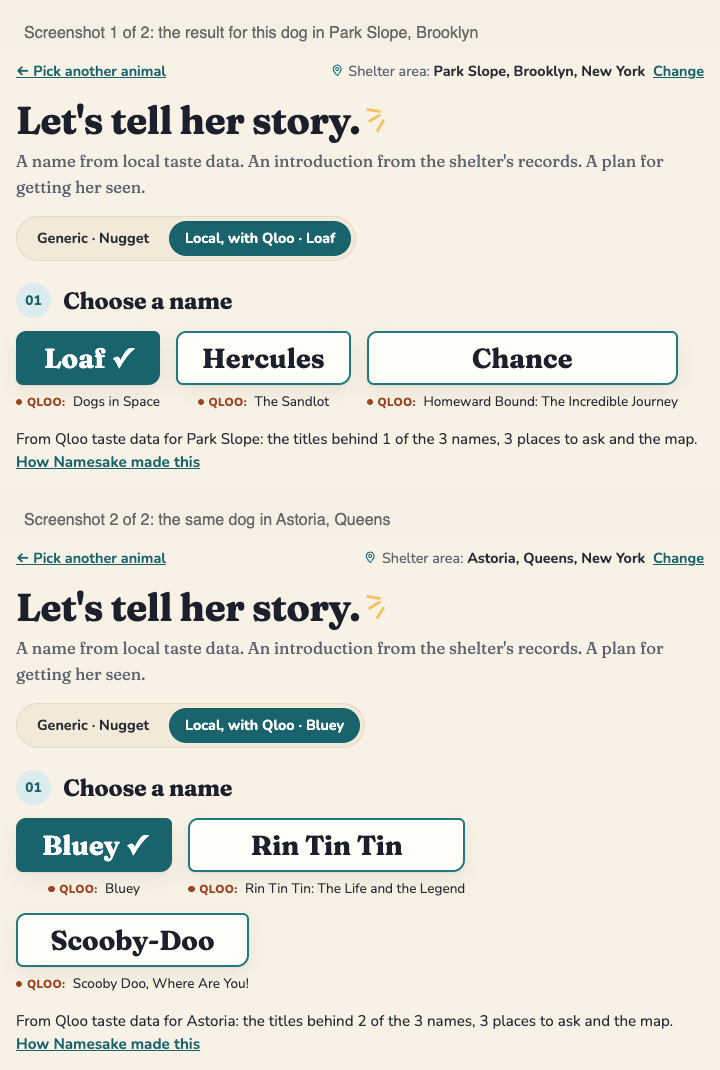
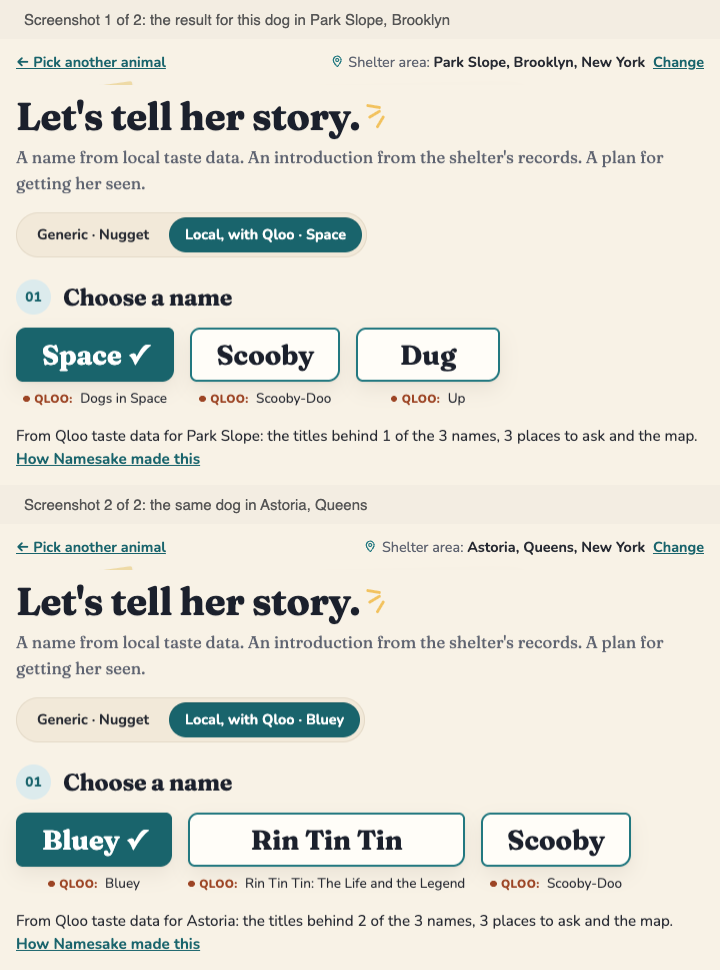
README screenshots retaken after the 24 October rebuild and note change; the lead dog's Park Slope names are Space, Scooby and Dug, Astoria's third is Scooby

Changed region(s): [[0.0, 0.0, 0.9778, 0.9897], [0.6111, 0.7423, 0.6417, 0.7732]]

diff --git a/README.md b/README.md
@@ -14,7 +14,7 @@ A **generic version** of the listing sits beside the **local version**, so you c
 
 Built for the [Qloo Agentic Hackathon](https://qloo-hackathon.devpost.com/). Taste data from the Qloo API; not affiliated with Qloo.
 
-![The first screen of the result for the lead dog in Park Slope, in the story skin: her photo, the local name Loaf with its line "Named after Loaf, a dog in Dogs in Space." and the start of what the shelter recorded on the left; "Let's tell her story" with the Generic and Local version toggle; three name options (Loaf, Hercules, Chance), each with its Qloo title under it; the line saying what came from Qloo's data for Park Slope; and the start of her introduction](docs/img/result-first-screen.png)
+![The first screen of the result for the lead dog in Park Slope, in the story skin: her photo, the local name Space with its line "Named after Dogs in Space." and the start of what the shelter recorded on the left; "Let's tell her story" with the Generic and Local version toggle; three name options (Space, Scooby, Dug), each with its Qloo title under it; the line saying what came from Qloo's data for Park Slope; and the start of her introduction](docs/img/result-first-screen.png)
 
 The whole result page, with the map, the places to ask and "How Namesake made this": [`docs/img/result.png`](docs/img/result.png).
 
@@ -35,9 +35,9 @@ Namesake does **not** claim to get animals adopted faster, save lives or money, 
 
 ## How it uses Qloo
 
-The same dog, the same record, two neighbourhoods of one city. Park Slope offers Loaf, Hercules and Chance; Astoria offers Bluey, Rin Tin Tin and Scooby-Doo. The local name comes from a pet-themed title Qloo ranks in each area (Loaf from *Dogs in Space*, Bluey from *Bluey*); the other options come from the area's pet-themed titles (Rin Tin Tin) or from lookalike titles Namesake's AI proposed and found in Qloo (Hercules from *The Sandlot*, Chance from *Homeward Bound*, Scooby-Doo).
+The same dog, the same record, two neighbourhoods of one city. Park Slope offers Space, Scooby and Dug; Astoria offers Bluey, Rin Tin Tin and Scooby. The local name comes from a pet-themed title Qloo ranks in each area (Space from *Dogs in Space*, Bluey from *Bluey*); the other options come from the area's pet-themed titles (Rin Tin Tin) or from lookalike titles Namesake's AI proposed and found in Qloo (Scooby from *Scooby-Doo* in both areas, Dug from *Up*).
 
-![The lead dog's result in Park Slope, Brooklyn (top: Loaf, Hercules and Chance) and in Astoria, Queens (bottom: Bluey, Rin Tin Tin and Scooby-Doo): each with its version toggle, its name options with their Qloo titles, and its own line saying what came from Qloo's data for the area](docs/img/two-neighbourhoods.png)
+![The lead dog's result in Park Slope, Brooklyn (top: Space, Scooby and Dug) and in Astoria, Queens (bottom: Bluey, Rin Tin Tin and Scooby): each with its version toggle, its name options with their Qloo titles, and its own line saying what came from Qloo's data for the area](docs/img/two-neighbourhoods.png)
 
 Namesake's AI (two agents, one per area and one per animal) and some plain code call Qloo through the official harness (`qloo exec`, pinned at 0.1.26). Every call is cached in SQLite and spaced at least 2 seconds apart, because the hackathon key is rate-limited; a refused ranking is retried after a longer wait.
 

diff --git a/docs/decisions.md b/docs/decisions.md
@@ -516,7 +516,7 @@ Revised 22 October: a refine now keeps the listing's names unless the request as
 
 **Follows:**
 - The warm and classic skins keep their layout; the new fields are in the shared view models and the JSON API.
-- The README screenshots are retaken with the examples' rebuild. Done 22 October; due again after the 24 October revision, with the Devpost gallery.
+- The README screenshots are retaken with the examples' rebuild. Done 22 October, and again on 24 October after the revision, with the Devpost gallery.
 
 ## 34. A workspace per browser, kept 7 days, with a link; no accounts
 
